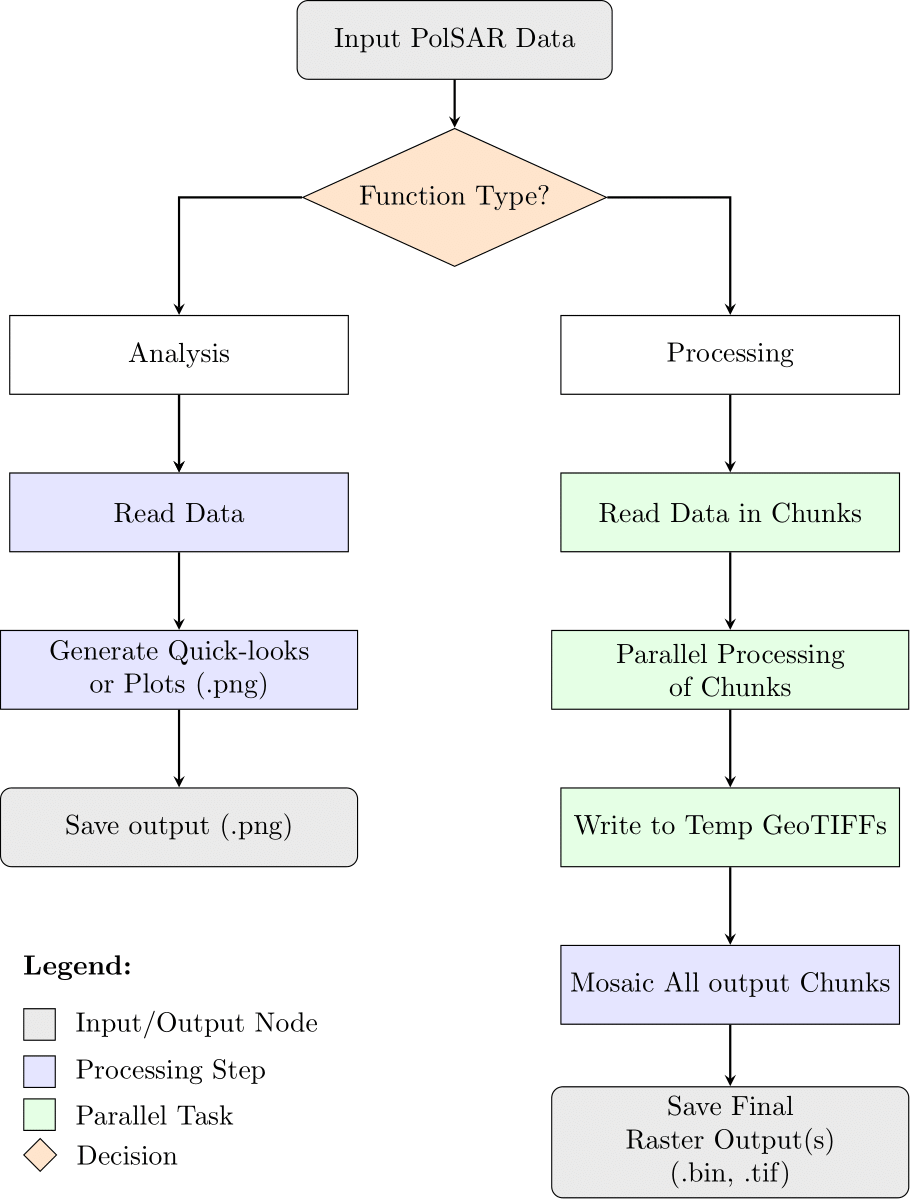
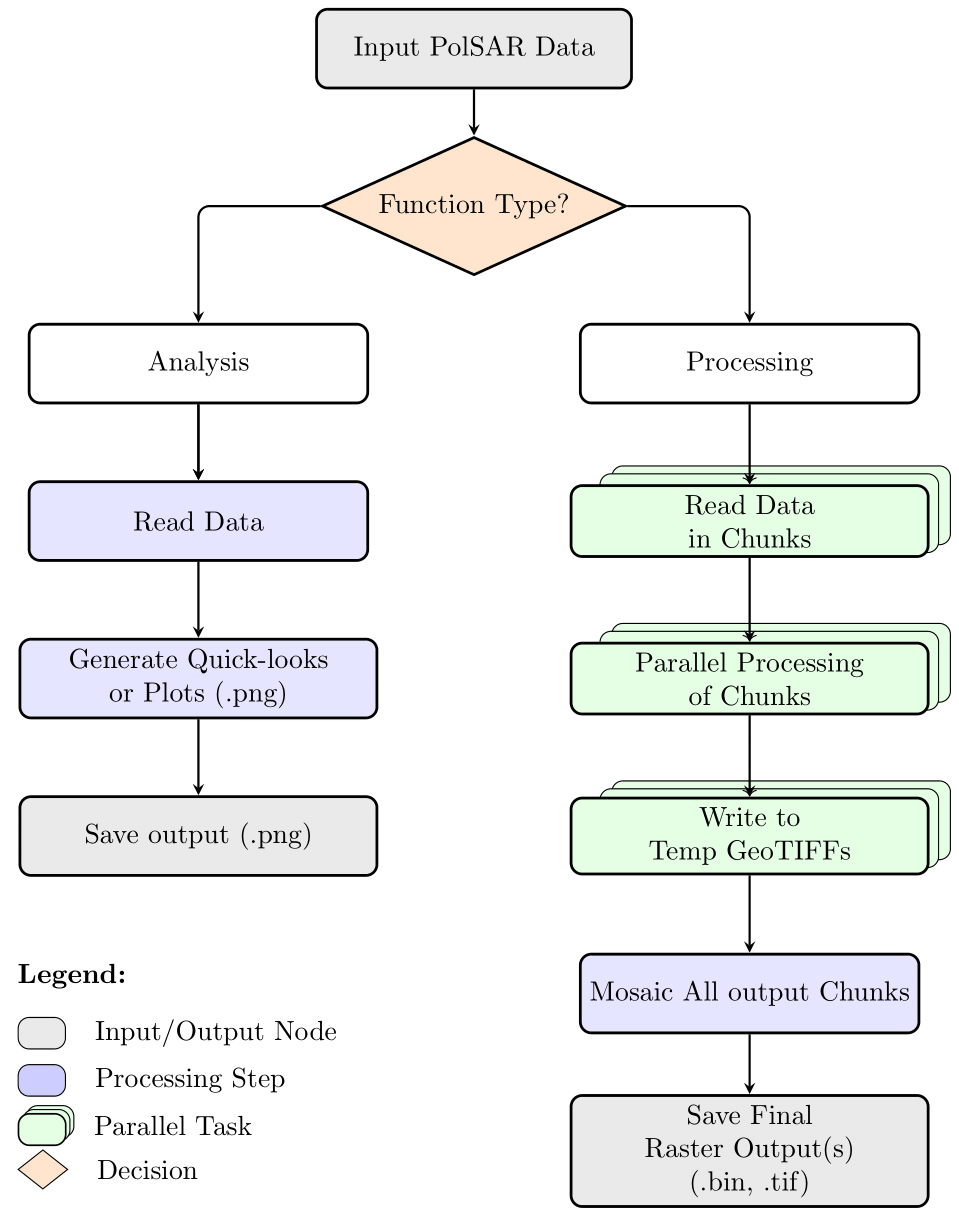
flowchart update

diff --git a/docs/paper/figures/flowchart.tex b/docs/paper/figures/flowchart.tex
@@ -1,16 +1,36 @@
 % \documentclass{article}
-\documentclass[tikz]{standalone}
+\documentclass[tikz,border=0.1cm]{standalone}
 \usepackage{tikz}
 \usetikzlibrary{shapes.geometric, arrows.meta}
+% \usepackage{par_style}
+\usetikzlibrary{positioning}
 
-\tikzstyle{startstop} = [rectangle, rounded corners, minimum width=4cm, minimum height=1cm, text centered, draw=black, fill=gray!20]
-\tikzstyle{process} = [rectangle, minimum width=4.3cm, minimum height=1cm, text centered, draw=black, fill=blue!10]
-\tikzstyle{cat} = [rectangle, minimum width=4.3cm, minimum height=1cm, text centered, draw=black, fill=white!10]
-\tikzstyle{parallel} = [rectangle, minimum width=4.3cm, minimum height=1cm, text centered, draw=black, fill=green!10]
-\tikzstyle{decision} = [diamond, aspect=2.2, text centered, draw=black, fill=orange!20]
+\newcommand{\stackednode}[5]{
+  \begin{scope}
+    % Background rectangles
+    \node[draw=black, rounded corners, fill=green!10, minimum width=#3, minimum height=#4] 
+      at ([shift={(0.4,0.2)}]#2) {};
+    \node[draw=black,rounded corners,  fill=green!10, minimum width=#3, minimum height=#4] 
+      at ([shift={(0.25,0.1)}]#2) {};
+
+    % Foreground named node with text
+    \node (#1) [draw=black,rounded corners,  fill=green!10, text width=#3, align=center, line width=1pt] 
+      at (#2) {#5};
+  \end{scope}
+}
+
+
+\tikzstyle{startstop} = [rectangle, rounded corners, minimum width=4cm, minimum height=1cm, text centered, draw=black, fill=gray!20, line width=1pt ]
+\tikzstyle{process} = [rectangle, rounded corners,minimum width=4.3cm, minimum height=1cm, text centered, draw=black, fill=blue!10, line width=1pt ]
+\tikzstyle{cat} = [rectangle, rounded corners,minimum width=4.3cm, minimum height=1cm, text centered, draw=black, fill=white!10, line width=1pt ]
+% \tikzstyle{parallel} = [rectangle, minimum width=4.3cm, minimum height=1cm, text centered, draw=black, fill=green!10]
+
+\tikzstyle{decision} = [diamond, aspect=2.2, text centered, draw=black, fill=orange!20, line width=1pt ]
 \tikzstyle{arrow} = [thick,->,>=stealth]
 
 \begin{document}
+
+
 \begin{tikzpicture}
 
 % Nodes
@@ -24,16 +44,22 @@
 
 
 \node (processing) at (6.5,-4) [cat] {Processing};
-\node (chunk) at (6.5,-6) [parallel] {Read Data in Chunks};
-\node (parallelproc) at (6.5,-8) [parallel,text width=4.3cm, align=center] {Parallel Processing\\ of Chunks};
-\node (tempgeotiff)at (6.5,-10)  [parallel] {Write to Temp GeoTIFFs};
+\stackednode{chunk}{6.5,-6}{4.3cm}{1cm}{Read Data\\ in Chunks}
+\draw[->] (processing) -- (chunk);
+\stackednode{parallelproc}{6.5,-8}{4.3cm}{1cm}{Parallel Processing\\ of Chunks}
+\draw[->] (chunk) -- (parallelproc);
+\stackednode{tempgeotiff}{6.5,-10}{4.3cm}{1cm}{Write to\\Temp GeoTIFFs}
+\draw[->] (parallelproc) -- (tempgeotiff);
 \node (mosaic) at (6.5,-12) [process] {Mosaic All output Chunks};
 \node (save)at (6.5,-14)  [startstop,text width=4.3cm, align=center] {Save Final Raster Output(s)\\(.bin, .tif)};
 
+
 % Arrows
 \draw [arrow] (start) -- (decide);
-\draw [arrow] (decide.west)  -| (analysis.north);
-\draw [arrow] (decide.east)-|  (processing.north);
+% \draw [arrow] (decide.west)  -| (analysis.north);
+% \draw [arrow] (decide.east)-|  (processing.north);
+\draw [arrow, rounded corners] (decide.west)  -| (analysis.north);
+\draw [arrow, rounded corners] (decide.east) -| (processing.north);
 
 \draw [arrow] (analysis) -- (readplot);
 \draw [arrow] (analysis) -- (readplot);
@@ -55,51 +81,45 @@
     \tikz[baseline]{
     \node[inner sep=0pt] (legenditem) at (0,0) {
         \begin{tikzpicture}
-        \node[draw=black, fill=gray!20, minimum size=0.4cm] {};
+        \node[draw=black, rounded corners, fill=gray!20, minimum width=.6cm, minimum height=.4cm] {};
         \end{tikzpicture}
     };
-    \node[anchor=west] at (legenditem.east) {Input/Output Node};
+    \node[anchor=west] at (legenditem.east) {~Input/Output Node};
     } \\
 
     \tikz[baseline]{
     \node[inner sep=0pt] (legenditem) at (0,0) {
         \begin{tikzpicture}
-        \filldraw[fill=blue!10, draw=black] (0,0) rectangle (0.4,0.4);
+        \node[draw=black,  rounded corners, fill=blue!20, minimum width=.6cm, minimum height=.4cm] {};
         \end{tikzpicture}
     };
-    \node[anchor=west] at (legenditem.east) {Processing Step};
+    \node[anchor=west] at (legenditem.east) {~Processing Step};
     } \\ 
+    \tikz[baseline]{
+  \node[inner sep=0pt] (legenditem) at (0,0) {
+    \begin{tikzpicture}
+      % Back layer
+      \node[draw=black, rounded corners,  fill=green!10, minimum width=0.6cm, minimum height=0.4cm] 
+        at (0.1,0.1) {};
+      % Mid layer
+      \node[draw=black,rounded corners,  fill=green!10, minimum width=0.6cm, minimum height=0.4cm] 
+        at (0.05,0.05) {};
+      % Front layer
+      \node[draw=black, rounded corners,  fill=green!10, line width=0.6pt, minimum width=0.6cm, minimum height=0.4cm] 
+        at (0,0) {};
+    \end{tikzpicture}
+  };
+  \node[anchor=west] at (legenditem.east) {Parallel Task};
+    }\\
 
     \tikz[baseline]{
     \node[inner sep=0pt] (legenditem) at (0,0) {
         \begin{tikzpicture}
-        \filldraw[fill=green!10, draw=black] (0,0) rectangle (0.4,0.4);
+         \node[draw, diamond, aspect=2, inner sep=3pt, fill=orange!20, minimum height=.5cm] {};
         \end{tikzpicture}
     };
-    \node[anchor=west] at (legenditem.east) {Parallel Task};
-    } \\
-
-    \tikz[baseline]{
-    \node[inner sep=0pt] (legenditem) at (0,0) {
-        \begin{tikzpicture}
-         \node[draw, diamond, aspect=1, inner sep=3pt, fill=orange!20] {};
-        \end{tikzpicture}
-    };
-    \node[anchor=west] at (legenditem.east) {Decision};
+    \node[anchor=west] at (legenditem.east) {~Decision};
     } 
-
-%   \begin{tikzpicture}[baseline=-0.1ex]
-%     \filldraw[fill=gray!20, draw=black] (0,0) rectangle (0.4,0.4);
-%   \end{tikzpicture}~ Input/Output Node\\
-%   \begin{tikzpicture}[baseline=-0.1ex]
-%     \filldraw[fill=blue!10, draw=black] (0,0) rectangle (0.4,0.4);
-%   \end{tikzpicture}~ Processing Step\\
-%   \begin{tikzpicture}[baseline=-0.1ex]
-%     \filldraw[fill=green!10, draw=black] (0,0) rectangle (0.4,0.4);
-%   \end{tikzpicture}~ Parallel Task\\
-%   \begin{tikzpicture}[baseline=-0.7ex]
-%     \node[draw, diamond, aspect=1, inner sep=3pt, fill=orange!20] {};
-%   \end{tikzpicture}~ Decision
 };
 
 
